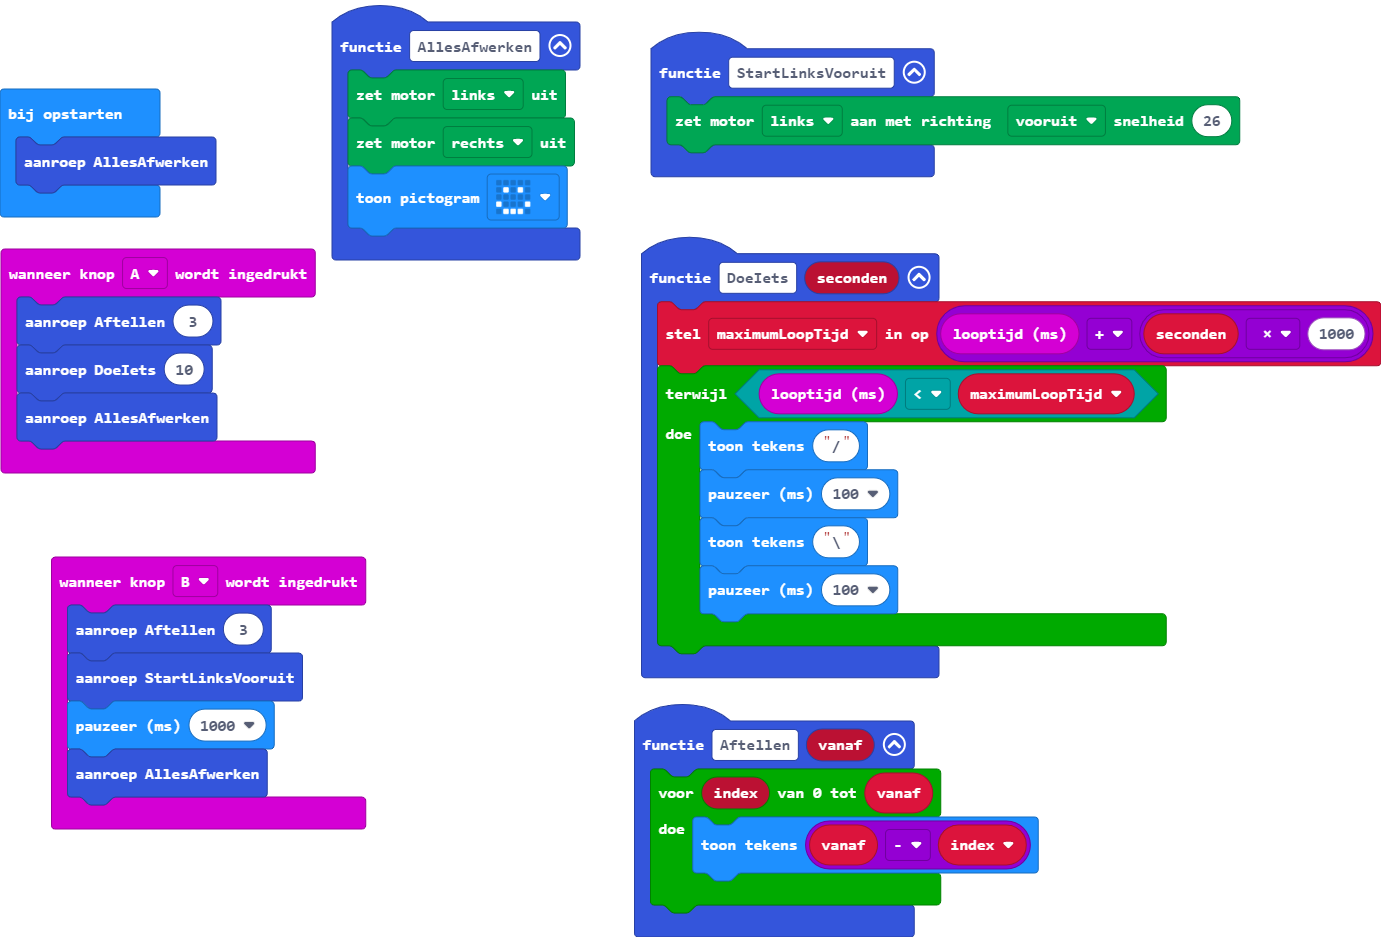
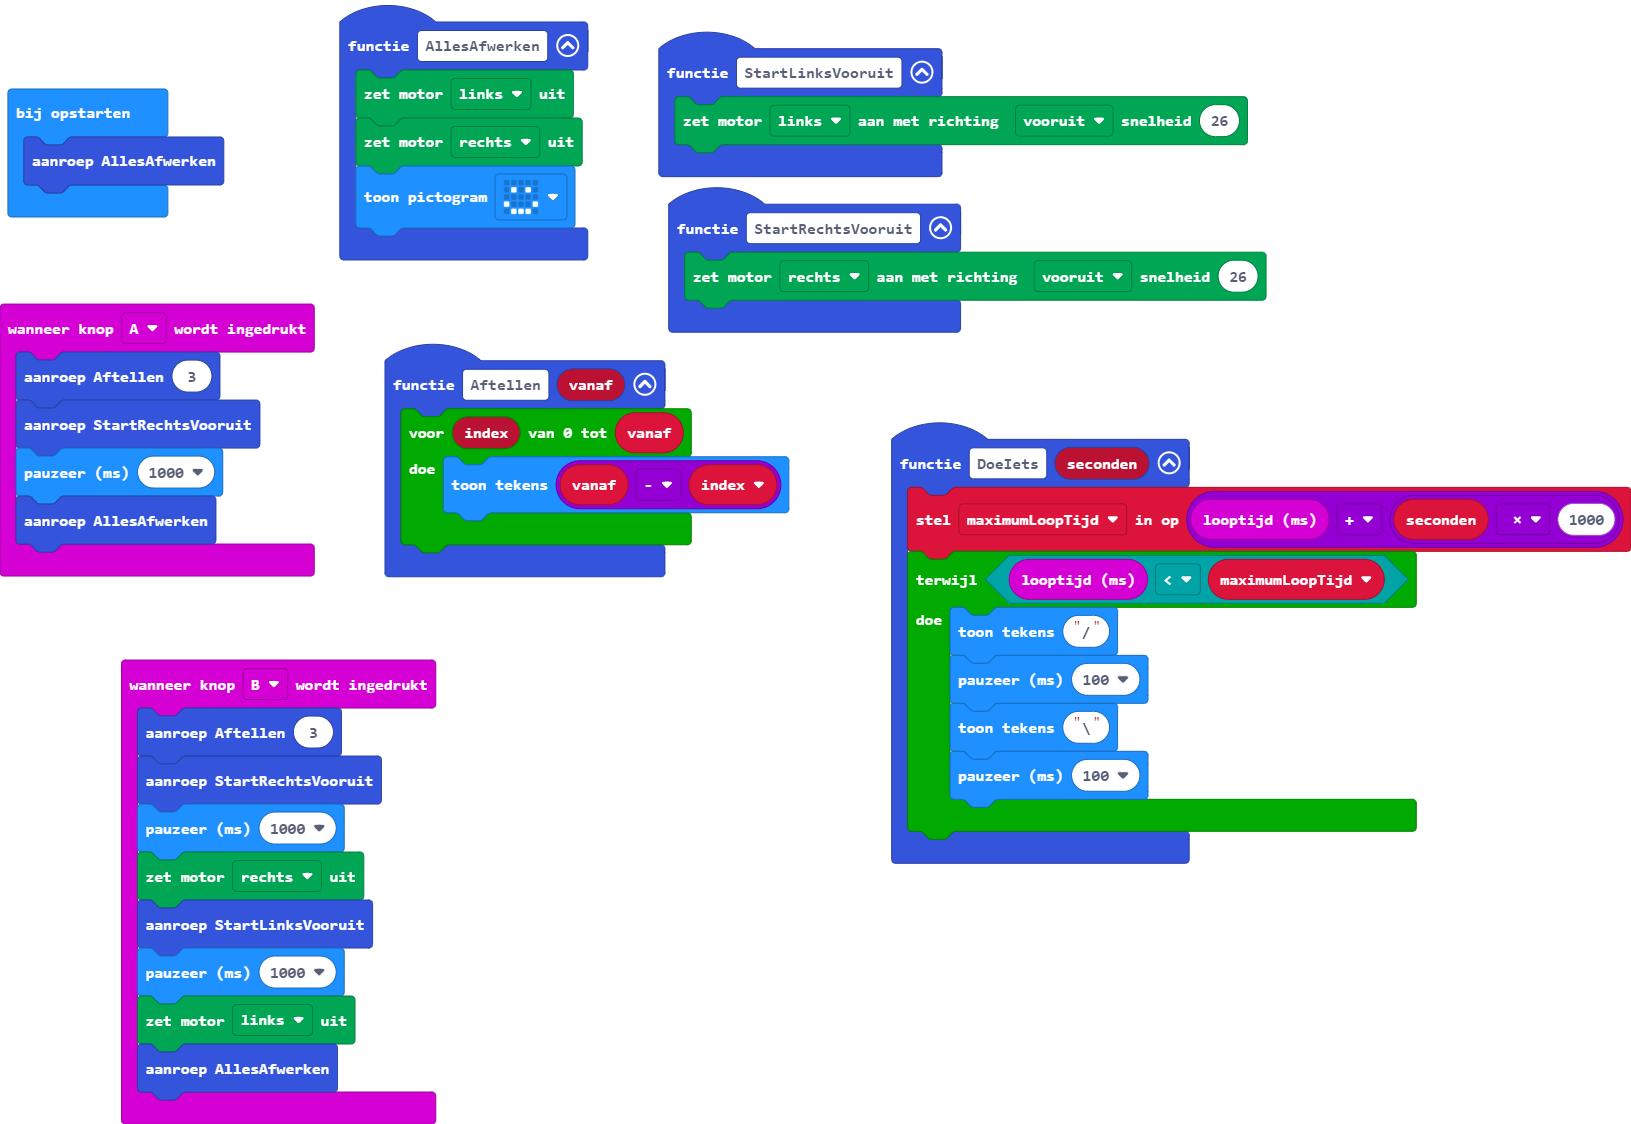
1.9 Afwisselend links en rechts rijden

diff --git a/main.ts b/main.ts
@@ -3,6 +3,9 @@ function AllesAfwerken () {
     Kitronik_Move_Motor.motorOff(Kitronik_Move_Motor.Motors.MotorRight)
     basic.showIcon(IconNames.Happy)
 }
+function StartRechtsVooruit () {
+    Kitronik_Move_Motor.motorOn(Kitronik_Move_Motor.Motors.MotorRight, Kitronik_Move_Motor.MotorDirection.Forward, 26)
+}
 function Aftellen (vanaf: number) {
     for (let index = 0; index <= vanaf; index++) {
         basic.showString("" + (vanaf - index))
@@ -10,7 +13,8 @@ function Aftellen (vanaf: number) {
 }
 input.onButtonPressed(Button.A, function () {
     Aftellen(3)
-    DoeIets(10)
+    StartRechtsVooruit()
+    basic.pause(1000)
     AllesAfwerken()
 })
 function StartLinksVooruit () {
@@ -18,8 +22,12 @@ function StartLinksVooruit () {
 }
 input.onButtonPressed(Button.B, function () {
     Aftellen(3)
+    StartRechtsVooruit()
+    basic.pause(1000)
+    Kitronik_Move_Motor.motorOff(Kitronik_Move_Motor.Motors.MotorRight)
     StartLinksVooruit()
     basic.pause(1000)
+    Kitronik_Move_Motor.motorOff(Kitronik_Move_Motor.Motors.MotorLeft)
     AllesAfwerken()
 })
 function DoeIets (seconden: number) {
